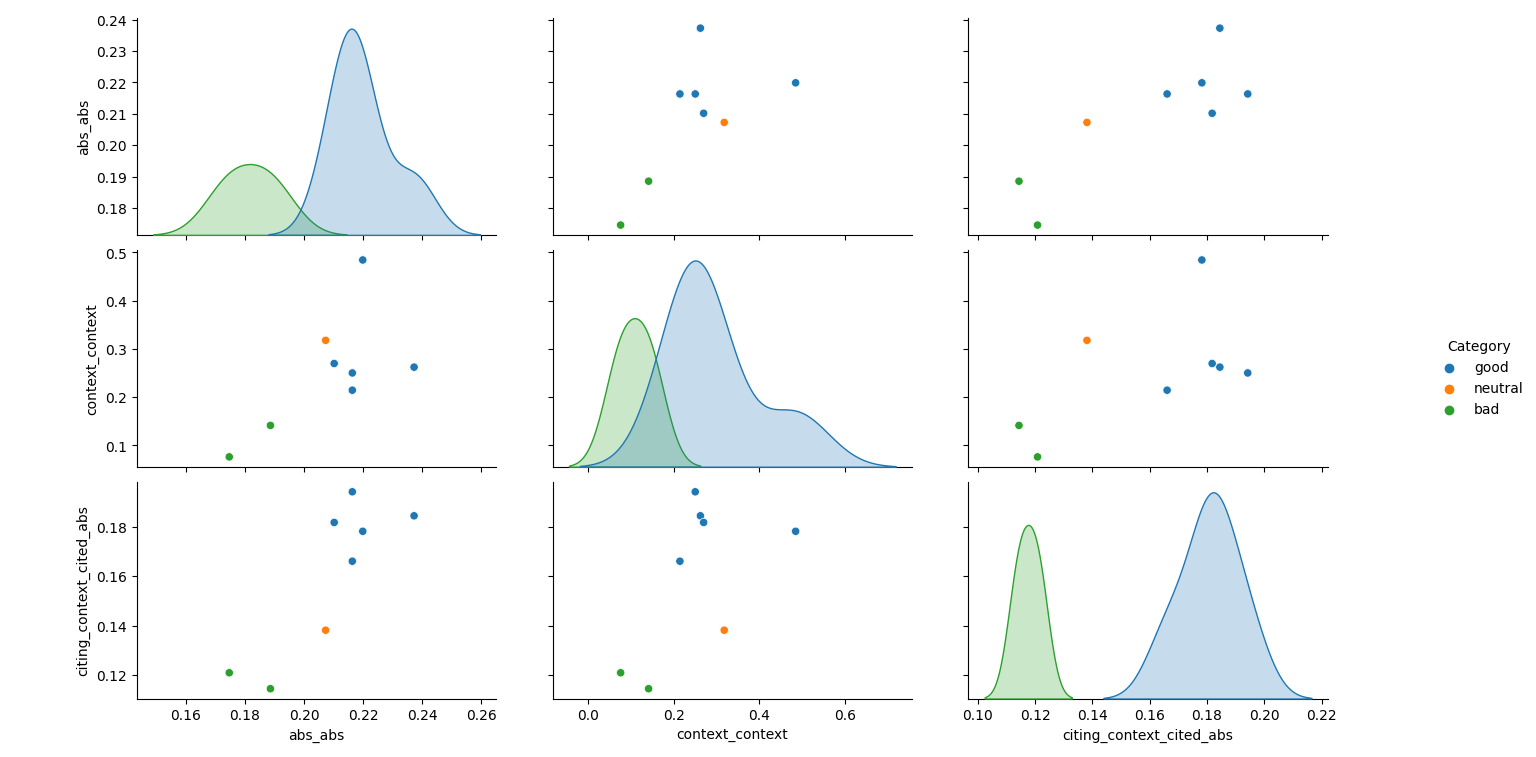
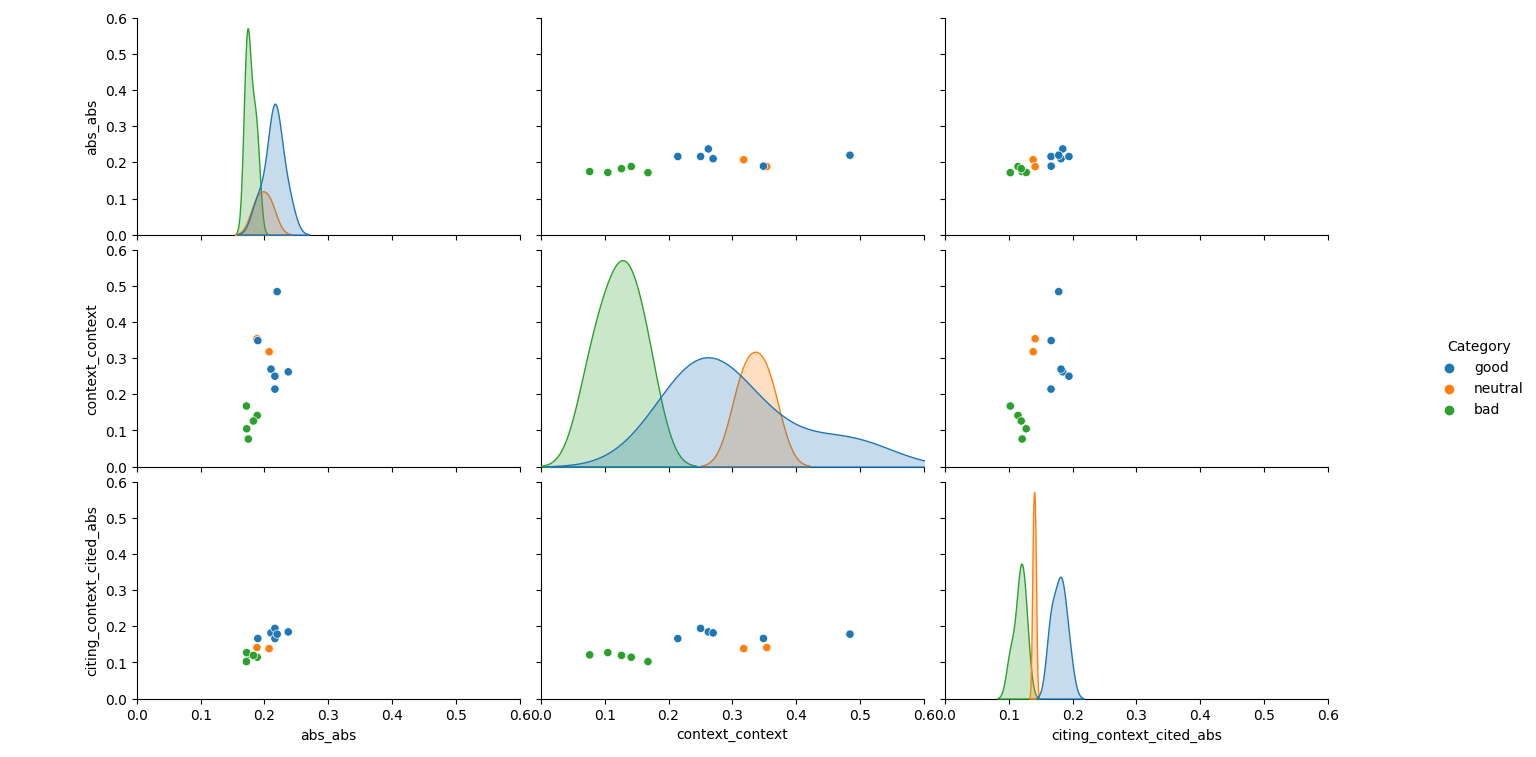
pairplot axes fixed

diff --git a/tools2.py b/tools2.py
@@ -98,6 +98,6 @@ def histplot(file, mode):
 def pairplot(file,mode):
     df = pd.read_csv(file, delimiter='\t', encoding='utf-8')
     pp = sb.pairplot(df, hue='Category')
-    #pp.set(xlim=(0,0.6), ylim = (0,0.6))
+    pp.set(xlim=(0,0.6), ylim = (0,0.6))
     plt.show()
 
